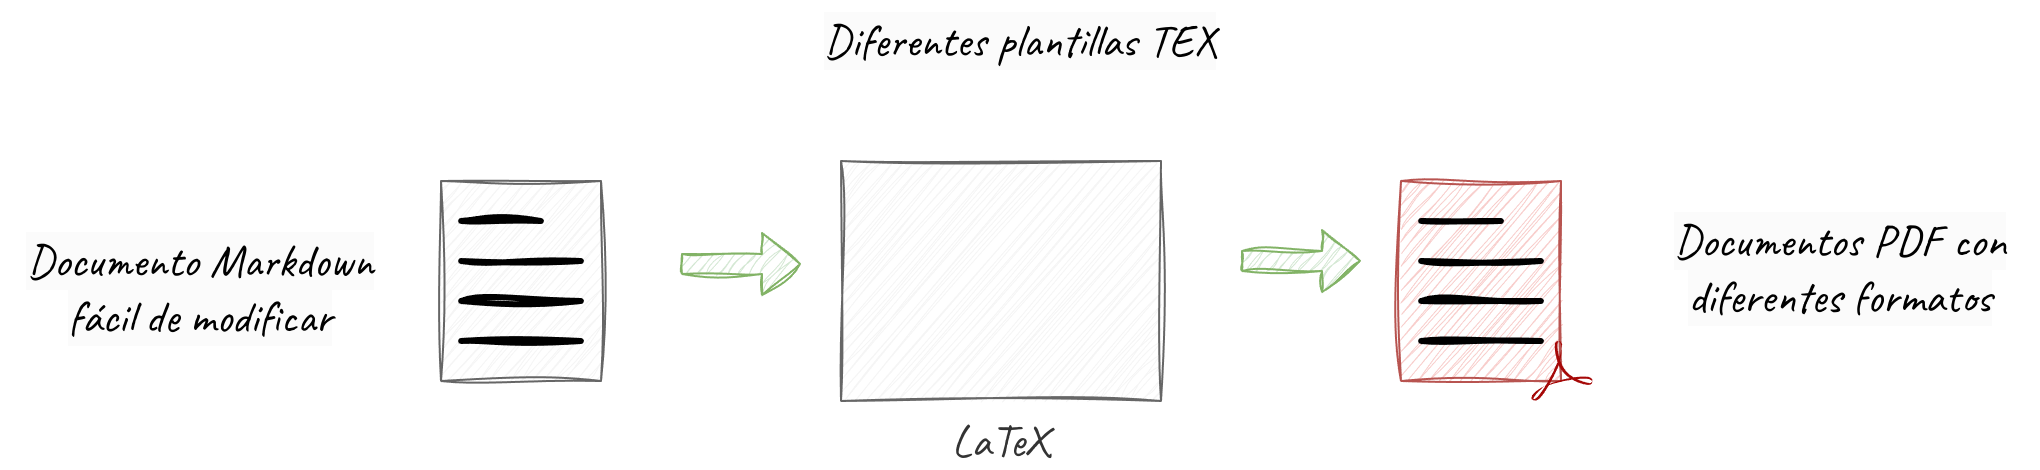
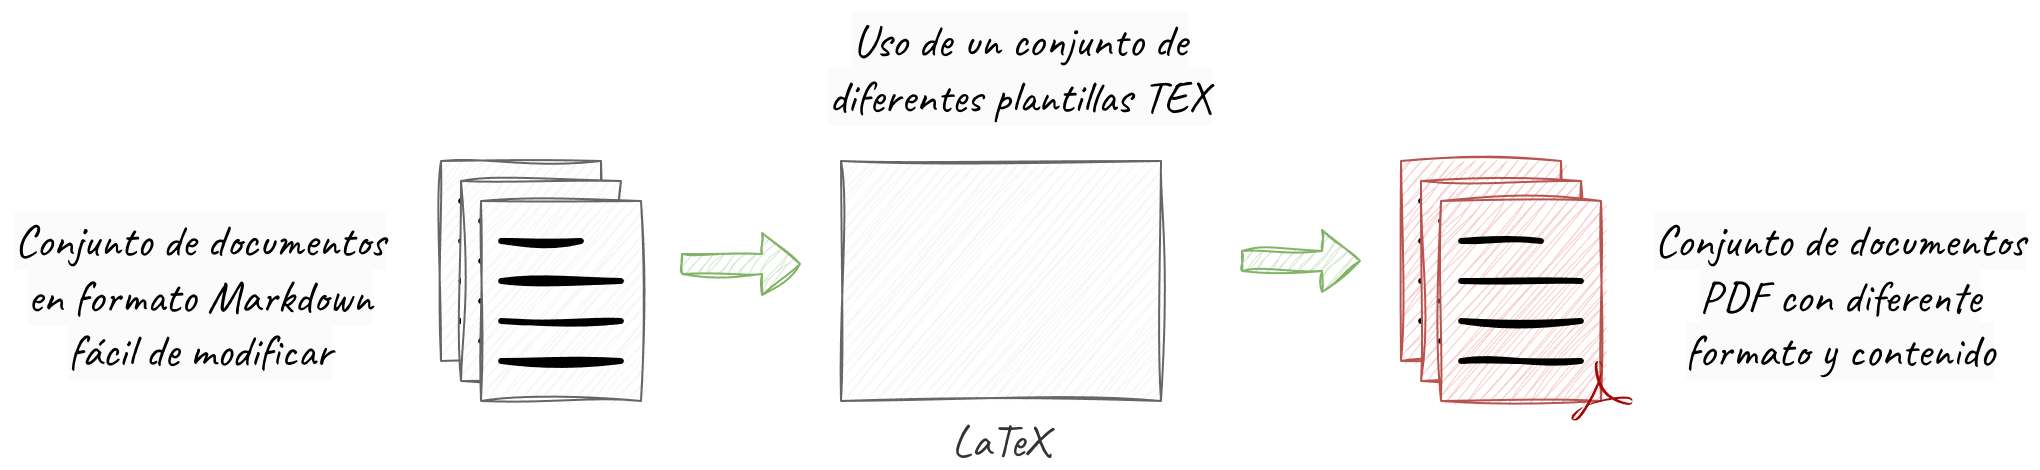
[] - chapter 4, section 5 review

diff --git a/chapter/4/section/section_5.tex b/chapter/4/section/section_5.tex
@@ -37,7 +37,7 @@ que el coste de la ejecución de un documento eran aproximadamente siete céntim
 para los conjuntos de datos de prueba y de tres elementos para los conjuntos de datos de contraste, ofrecía un
 balance adecuado.
 
-En la tabla que aparece a continuación pueden verse los conjuntos de datos de prueba desarrollados.
+En la tabla~\ref{tab:data_sets} pueden verse los conjuntos de datos de prueba desarrollados.
 
 \begin{table}[h]
     \renewcommand{\arraystretch}{1.5}
@@ -46,7 +46,7 @@ En la tabla que aparece a continuación pueden verse los conjuntos de datos de p
         \toprule
         \textbf{Conjunto} & \textbf{Contenido}                                        & \textbf{Elementos} \\
         \midrule
-        \textbf{000}      & Ruido                                                     & 3                  \\
+        \textbf{000}      & Datos de contraste                                        & 3                  \\
         \textbf{001}      & Contratos de arrendamiento de vivienda entre particulares & 9                  \\
         \textbf{002}      & Contratos de compra venta de vehículo entre particulares  & 9                  \\
         \bottomrule
@@ -55,7 +55,7 @@ En la tabla que aparece a continuación pueden verse los conjuntos de datos de p
     \label{tab:data_sets}
 \end{table}
 
-El conjunto de datos \textbf{000} contiene ruido, es decir documentos que no corresponden a ninguno de los
+El conjunto de datos \textbf{000} contiene ruido o contraste es decir documentos que no corresponden a ninguno de los
 otros conjuntos.
 
 El conjunto de datos \textbf{001} contiene modelos descargados de diferentes fuentes de internet.
@@ -65,25 +65,22 @@ El conjunto de datos \textbf{002} se generó de la misma forma que el anterior.
 
 Este proceso aseguró la privacidad y el cumplimiento de la normativa de protección de datos.
 
-
-
 \subsubsection{Construcción del conjunto de datos de prueba}
 
 Para permitir modificar fácilmente los documentos de los diferentes conjuntos, estos fueron transformados a formato
-\textbf{Markdown}, más sencillo de modificar, que los documentos originales en formato \textbf{Word}.
+\textit{Markdown} más sencillo de modificar, que los documentos originales en formato \textit{Word}.
 
-A través de \textbf{LaTeX} y diferentes plantillas para introducir variabilidad en los formatos de entrada, estos
-documentos son convertidos a formato \textbf{PDF}.
+A través de \textit{LaTeX} y un conjunto definido de plantillas para introducir variabilidad en los formatos de
+entrada, estos documentos son convertidos a formato \textit{PDF}.
 En la figura~\ref{fig:chapter_4.5.dataset_construction_overview} puede verse un esquema de este comportamiento.
 
 \begin{figure}[ht]
     \begin{center}
         \includegraphics[width=\textwidth]{./chapter/4/images/chapter_4.5.dataset_construction_overview}
-        \caption{Contrucción del conjunto de datos de prueba}
+        \caption{Contrucción automática del conjunto de datos de prueba}
         \label{fig:chapter_4.5.dataset_construction_overview}
     \end{center}
 \end{figure}
-
 
 \subsection{Pruebas automáticas}
 
@@ -93,11 +90,11 @@ En este proyecto, se han implementado varios tipos de pruebas automáticas, cada
 todas las facetas del desarrollo y la implementación del software.
 
 \begin{enumerate}
-    \item \textbf{Pruebas unitarias}: verifican el funcionamiento de componentes individuales del sistema, como
+    \item Las \textbf{Pruebas unitarias} verifican el funcionamiento de componentes individuales del sistema, como
     funciones o métodos.
-    \item \textbf{Pruebas integración}: comprueban el correcto funcionamiento de diferentes componentes
+    \item Las \textbf{Pruebas integración} comprueban el correcto funcionamiento de diferentes componentes
     interactuando coordinadamente.
-    \item \textbf{Pruebas funcionales}: evalúan el sistema desde el punto de vista del usuario final.
+    \item Las \textbf{Pruebas funcionales} evalúan el sistema desde el punto de vista del usuario final.
 \end{enumerate}
 
 En la figura~\ref{fig:chapter_4.5.test_suite_execution} puede verse el resultado de la ejecución de la batería de
@@ -113,8 +110,8 @@ pruebas.
 
 \subsection{Integración continua}
 La integración continua es una práctica esencial en el desarrollo de software moderno, que implica la integración
-frecuente, normalmente programando la ejecución automática de los test y otras tareas en un servidor de integración
-continua, cada vez que se añade un commit al repositorio.
+frecuente y la ejecución automática de los test.
+Normalmente programado para ejecutarse cada vez que se añade un cambio al repositorio.
 
 \begin{figure}[ht]
     \begin{center}
@@ -124,9 +121,9 @@ continua, cada vez que se añade un commit al repositorio.
     \end{center}
 \end{figure}
 
-En este proyecto, hemos implementado la integración continua utilizando \textbf{GitHub Actions}, un servicio de
+En este proyecto, hemos implementado la integración continúa utilizando \textit{GitHub Actions}, un servicio de
 automatización que permite crear flujos de trabajo personalizados para compilar, probar y desplegar código directamente
-desde \textbf{GitHub}.
+desde \textit{GitHub}.
 
 En la figura~\ref{fig:chapter_4.5.github_actions_execution} puede verse el resultado de la ejecución de la batería de
 pruebas en el entorno de integración continua.

diff --git a/chapter/2/section/section_2.tex b/chapter/2/section/section_2.tex
@@ -1,22 +1,14 @@
 \section{Arquitectura limpia}\label{sec:clean_architecture}
 
-El uso de una arquitectura limpia en el desarrollo del sistema de extracción de información de documentos asegura que
-cada componente del sistema sea independiente y fácil de modificar o reemplazar.
-Como veremos, esto permitirá una integración sencilla de nuevas tecnologías y, por lo tanto, la inclusión del soporte
-de nuevos tipos de formato o nuevos tipos de documento en el sistema a futuro.
-
-\subsection{Introducción histórica}
 En el ámbito del desarrollo de software, la arquitectura de un sistema es crucial para determinar su escalabilidad y
 mantenibilidad a largo plazo.
-
 Una de las metodologías que ha cobrado relevancia en este contexto son las ``arquitecturas limpias'', un enfoque para el
 diseño de software promovido por Robert C. Martin en su libro Clean Architecture: A Craftsman`s Guide to Software
 Structure and Design~\cite{book_martin_2017}.
 
-\subsection{Definición}
 La arquitectura limpia es un estilo de diseño que organiza el sistema de manera que sea independiente de los diferentes
-elementos a los que considera detalles de implementación y que son intercambiables unos por otros:
-\textit{frameworks}, \textit{interfaces}, bases de datos o \textit{API} entre otros.
+elementos externos a los que considera detalles de implementación y que son intercambiables unos por otros como por
+ejemplo: \textit{frameworks}, \textit{interfaces}, bases de datos o \textit{API} entre otros.
 
 La esencia de esta arquitectura radica en su diagrama de capas, donde cada capa tiene una responsabilidad claramente
 definida y depende solo de las capas más internas.
@@ -35,11 +27,11 @@ proyecto hemos decidido implementar la versión en tres capas que aparece en la 
     \end{center}
 \end{figure}
 
-La capa más interior se denomina \textbf{capa de dominio} y es el corazón del modelo de negocio de la aplicación y
-encapsula la lógica y las reglas del negocio.
+La capa más interior se denomina \textbf{capa de dominio} y es el corazón del proyecto, encapsula la lógica y las
+reglas.
 Esta capa es fundamentalmente agnóstica respecto a tecnologías externas y se centra exclusivamente en definir los
-conceptos fundamentales del negocio.
-Algunos de los elementos que puede contener son: entidades, objetos de valor, servicios de dominio, abstracciones
+conceptos fundamentales.
+Algunos de los elementos que contiene son: entidades, objetos de valor, servicios de dominio, abstracciones
 
 Esta capa debe ser autocontenida y fácilmente testable, aislada de tecnologías externas como bases de datos o
 interfaces de usuario.
@@ -53,3 +45,8 @@ La capa de infraestructura proporciona las capacidades tecnológicas necesarias 
 realizar sus funciones sin tener que preocuparse por los detalles de implementación.
 Toda la comunicación o interacción con elementos externos a la aplicación deben estar contenidos dentro de la capa de
 infraestructura.
+
+El uso de una arquitectura limpia en el desarrollo de este sistema asegura que cada componente en la capa de
+infraestructura sea fácil de modificar o reemplazar.
+Como veremos, esto permitirá una integración sencilla de nuevas tecnologías y, por lo tanto, la inclusión del soporte
+de nuevos tipos de formato o nuevos tipos de documento en el sistema a futuro.

diff --git a/chapter/2/section/section_4.tex b/chapter/2/section/section_4.tex
@@ -1,11 +1,5 @@
 \section{Modelos de lenguaje de gran escala}
 
-Se utilizaron modelos de lenguaje de gran escala como \textit{GPT} y otros, para la extracción de información de
-documentos.
-Estos modelos permiten manejar textos complejos y extraer datos con un alto grado de precisión, lo cual es esencial
-para cumplir los objetivos del proyecto.
-
-\subsection{Introducción histórica}
 La historia de los Modelos de lenguaje de gran escala o \textit{Large Language Models} (LLMs) comienza con los
 primeros modelos estadísticos de lenguaje en la década de 1980, que utilizaban métodos simples como los modelos de
 Markov y n-gramas para predecir la probabilidad de secuencias de palabras~\cite{article_jelinek_1997}.
@@ -25,6 +19,9 @@ El verdadero cambio paradigmático llegó en 2017 con el desarrollo de la arquit
 ~\cite{article_vaswani_2017}.
 Esta arquitectura introdujo el mecanismo de atención, que permite a los modelos ponderar diferentes partes de la entrada
 de texto de manera dinámica, mejorando la capacidad de los modelos para manejar secuencias de texto largas y complejas.
+
+En este proyecto se utilizaron modelos de lenguaje de gran escala como \textit{GPT}, para la extracción de información
+de documentos, tal y cómo veremos en la sección~\ref{sec:implemetacion_y_programacion} Implementación y programación.
 
 \subsection{Principales modelos}
 
@@ -58,5 +55,5 @@ suelen ser menos potentes que los modelos más disponibles a través de platafor
 \subsubsection{Otros}
 
 Además de los descritos existen muchas otras plataformas o proyectos como por ejemplo
-\textit{EleutherAI}~\cite{url_eleutherai}, \textit{Fairseq}~\cite{url_fairseq} o \textit{GPT2}~\cite{url_gpt2}
+\textit{Eleuther AI}~\cite{url_eleutherai}, \textit{Fairseq}~\cite{url_fairseq} o \textit{GPT 2}~\cite{url_gpt2}
 que ofrecen alternativas LLM para desarrolladores interesados en incorporar este tipo de capacidades a sus aplicaciones.

diff --git a/chapter/2/section/section_1.tex b/chapter/2/section/section_1.tex
@@ -1,19 +1,17 @@
 \section{Código limpio}\label{sec:clean_code}
 
-En el desarrollo del sistema de extracción de información de documentos, permitirá que otros desarrolladores pudieran
-entender y modificar el código con facilidad, lo cual es esencial para futuras extensiones y mejoras del sistema.
-
-\subsection{Introducción histórica}
 El concepto de Código Limpio ha sido fundamental en la programación de software desde los primeros días del desarrollo
 de software, pero fue articulado y popularizado con gran efecto por Robert C. Martin en su libro~\cite{book_martin_2008}
 
 Este libro se convirtió en una guía esencial para muchos desarrolladores al enfatizar la importancia de escribir código
 que no solo funcione, sino que también sea fácil de entender, modificar y mantener.
 
-\subsection{Definición}
 El código limpio es aquel que es fácil de entender y fácil de modificar y hace exactamente lo que se espera que haga.
 Según Robert C. Martin, el código limpio puede ser leído y mejorado por un desarrollador que no sea su autor original
 con un mínimo esfuerzo necesario.
 
 Se caracteriza por su simplicidad, la ausencia de duplicación, la expresión clara de la intención del desarrollador y
 la atención a los detalles en el nivel de código.
+
+En el desarrollo de este proyecto, permitirá que otros desarrolladores puedan entender y modificar el código con
+facilidad, lo cual es esencial para futuras extensiones y mejoras del sistema.

diff --git a/chapter/2/section/section_3.tex b/chapter/2/section/section_3.tex
@@ -1,6 +1,5 @@
 \section{Procesamiento de lenguaje natural}
 
-\subsection{Introducción histórica}
 El Procesamiento de Lenguaje Natural o \textit{Natural Language Processing} (NLP) es un campo que se sitúa en la
 intersección de la informática, la inteligencia artificial y la lingüística.
 
@@ -22,13 +21,3 @@ El verdadero cambio paradigmático llegó con el advenimiento de las redes neuro
 década de 2010.
 Este período vio la creación de modelos de lenguaje avanzados~\cite{article_devlin_2019}, que han revolucionado la
 capacidad de las máquinas para procesar el lenguaje con un grado de sutileza y profundidad sin precedentes.
-
-\subsection{Definición}
-
-El NLP es un campo que combina técnicas de la informática, la inteligencia artificial y la lingüística computacional con
-el objetivo de permitir que las máquinas entiendan, interpreten, manipulen y generen lenguaje humano de manera efectiva
-y eficiente.
-
-El NLP utiliza algoritmos y modelos matemáticos para abordar diversas tareas relacionadas con el lenguaje, tales como la
-traducción automática entre idiomas, la generación de respuestas automáticas, la extracción de información relevante de
-textos, el análisis de sentimientos, el reconocimiento de voz, y la síntesis de habla, entre otros.
